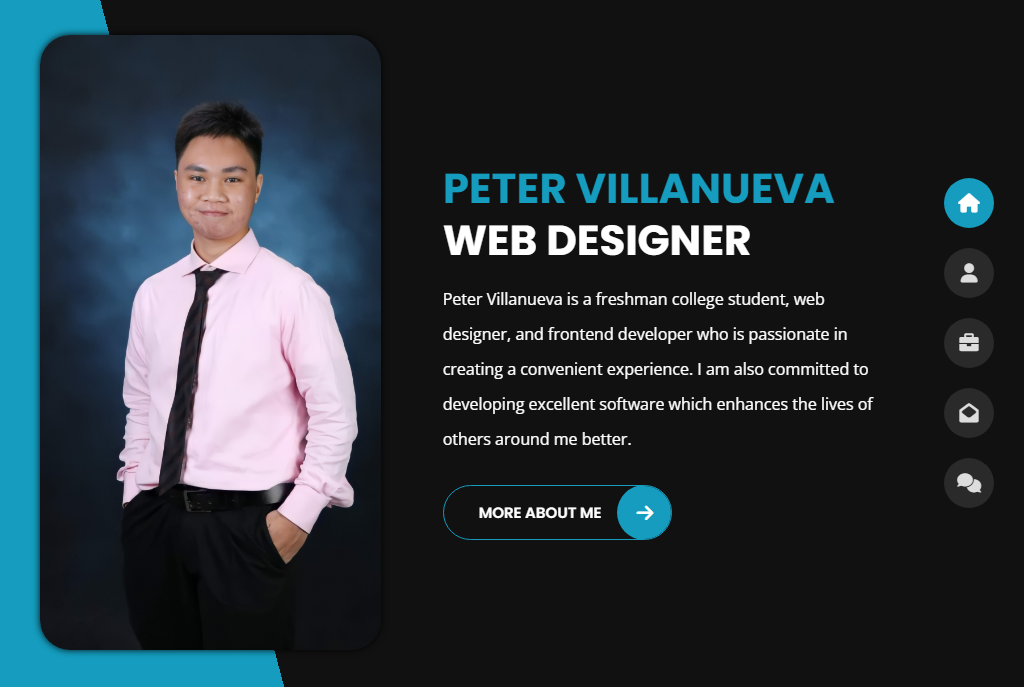
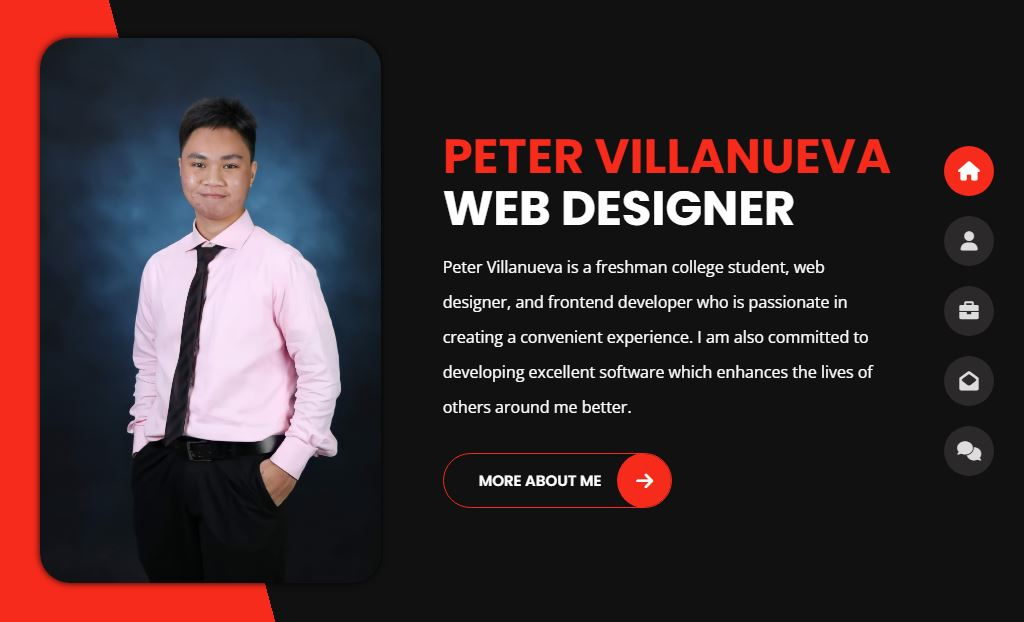
✔ Update

diff --git a/css/skins/red.css b/css/skins/red.css
@@ -16,6 +16,7 @@ body.light #menu li.active a,
 .blog-post .meta i{
 	color: #f72b1c;
 }
+.home .home-details h1:before,
 .about .resume-box .icon,
 .contact ul.social li a:hover,
 body.light.contact ul.social li a:hover,
@@ -31,8 +32,10 @@ body.light .header ul.icon-menu li.icon-box.active, body.light  .header ul.icon-
 .header .icon-box h2,
 .home .color-block,
 .title-section hr,
-.portfolio .slideshow .carousel-indicators li.active {
-	background-color: #f72b1c;
+.portfolio .slideshow .carousel-indicators li.active,
+.button:before,
+.button-icon{
+	background-color:#f72b1c;
 }
 .contact .contactform input[type=text]:focus,
 .contact .contactform input[type=email]:focus,
@@ -43,13 +46,13 @@ body.light.contact .contactform textarea:focus,
 .blog .page-item.active .page-link,
 .blog .page-link:hover,
 body.light.blog .page-item.active .page-link,
-body.light.blog .page-link:hover{
-	border: 1px solid #f72b1c;
+body.light.blog .page-link:hover,
+.button{
+	border: 1px solid#f72b1c;
 }
 .blog .post-thumb {
 	border-bottom: 5px solid #f72b1c;
 }
 .pie, .c100 .bar, .c100.p51 .fill, .c100.p52 .fill, .c100.p53 .fill, .c100.p54 .fill, .c100.p55 .fill, .c100.p56 .fill, .c100.p57 .fill, .c100.p58 .fill, .c100.p59 .fill, .c100.p60 .fill, .c100.p61 .fill, .c100.p62 .fill, .c100.p63 .fill, .c100.p64 .fill, .c100.p65 .fill, .c100.p66 .fill, .c100.p67 .fill, .c100.p68 .fill, .c100.p69 .fill, .c100.p70 .fill, .c100.p71 .fill, .c100.p72 .fill, .c100.p73 .fill, .c100.p74 .fill, .c100.p75 .fill, .c100.p76 .fill, .c100.p77 .fill, .c100.p78 .fill, .c100.p79 .fill, .c100.p80 .fill, .c100.p81 .fill, .c100.p82 .fill, .c100.p83 .fill, .c100.p84 .fill, .c100.p85 .fill, .c100.p86 .fill, .c100.p87 .fill, .c100.p88 .fill, .c100.p89 .fill, .c100.p90 .fill, .c100.p91 .fill, .c100.p92 .fill, .c100.p93 .fill, .c100.p94 .fill, .c100.p95 .fill, .c100.p96 .fill, .c100.p97 .fill, .c100.p98 .fill, .c100.p99 .fill, .c100.p100 .fill {
-	border: 0.08em solid #f72b1c;
+	border: 0.08em solid#f72b1c;
 }
-

diff --git a/contact.html b/contact.html
@@ -20,7 +20,7 @@
         <link href="css/font-awesome.min.css" rel="stylesheet">
         <link href="css/fm.revealator.jquery.min.css" rel="stylesheet">
         <link href="css/style.css" rel="stylesheet">
-        <link href="css/skins/teal.css" rel="stylesheet">
+        <link href="css/skins/red.css" rel="stylesheet">
         <link rel="stylesheet" href="css/Poppins.css">
         <link rel="stylesheet" href="css/Open-Sans.css">
     </head>
@@ -144,19 +144,19 @@
                                 <div class="row">
                                     <div class="col-12 col-md-4">
                                         <input type="text" name="name"
-                                            placeholder="YOUR NAME">
+                                            placeholder="NAME">
                                     </div>
                                     <div class="col-12 col-md-4">
                                         <input type="email" name="email"
-                                            placeholder="YOUR EMAIL">
+                                            placeholder="EMAIL">
                                     </div>
                                     <div class="col-12 col-md-4">
                                         <input type="text" name="subject"
-                                            placeholder="YOUR SUBJECT">
+                                            placeholder="SUBJECT">
                                     </div>
                                     <div class="col-12">
                                         <textarea name="message"
-                                            placeholder="YOUR MESSAGE"></textarea>
+                                            placeholder="MESSAGE"></textarea>
                                         <button type="submit" class="button">
                                             <span class="button-text">Send
                                                 Message</span>

diff --git a/about.html b/about.html
@@ -14,7 +14,7 @@
         <link href="css/font-awesome.min.css" rel="stylesheet">
         <link href="css/fm.revealator.jquery.min.css" rel="stylesheet">
         <link href="css/style.css" rel="stylesheet">
-        <link href="css/skins/teal.css" rel="stylesheet">
+        <link href="css/skins/red.css" rel="stylesheet">
         <link
             href="https://fonts.googleapis.com/css?family=Poppins:400,400i,500,500i,600,600i,700,700i,800,800i,900,900i"
             rel="stylesheet">
@@ -158,8 +158,8 @@
                                 </ul>
                             </div>
                             <div class="col-12 mt-3">
-                                <a class="button" href="portfolio.html">
-                                    <span class="button-text">My Portfolio</span>
+                                <a class="button" href="">
+                                    <span class="button-text">Download CV</span>
                                     <span class="button-icon fa fa-download"></span>
                                 </a>
                             </div>

diff --git a/index.html b/index.html
@@ -24,7 +24,7 @@
         <link href="css/font-awesome.min.css" rel="stylesheet">
         <link href="css/fm.revealator.jquery.min.css" rel="stylesheet">
         <link href="css/style.css" rel="stylesheet">
-        <link href="css/skins/teal.css" rel="stylesheet">
+        <link href="css/skins/red.css" rel="stylesheet">
         <link href="https://fonts.googleapis.com/css?family=Poppins:400,400i,500,500i,600,600i,700,700i,800,800i,900,900i" rel="stylesheet">
         <link href="https://fonts.googleapis.com/css?family=Open+Sans:300,400,400i,600,600i,700" rel="stylesheet">
         <link rel="stylesheet" href="css/Poppins.css">

diff --git a/css/style.css b/css/style.css
@@ -46,6 +46,7 @@ Version: 3.0 (12/29/22)
 html {
   overflow-x: hidden;
   height: 100%;
+  scroll-behavior: smooth;
 }
 html::-webkit-scrollbar{
   display: none; 
@@ -1038,7 +1039,7 @@ body.light hr.separator {
 
 .contact .custom-span-contact {
   font-weight: 600;
-  padding-left: 50px;
+  padding-left: 45px;
   line-height: 21px;
   padding-top: 5px;
 }
@@ -1344,8 +1345,8 @@ body.light hr.separator {
   }
 
   .home .home-details h1 {
-    font-size: 38px;
-    line-height: 48px;
+    font-size: 48px;
+    line-height: 52px;
     margin: 29px 0 13px;
   }
 

diff --git a/blog.html b/blog.html
@@ -14,7 +14,7 @@
         <link href="css/font-awesome.min.css" rel="stylesheet">
         <link href="css/fm.revealator.jquery.min.css" rel="stylesheet">
         <link href="css/style.css" rel="stylesheet">
-        <link href="css/skins/teal.css" rel="stylesheet">
+        <link href="css/skins/red.css" rel="stylesheet">
         <script src="js/modernizr.custom.js"></script>
         <link
             href="https://fonts.googleapis.com/css?family=Poppins:400,400i,500,500i,600,600i,700,700i,800,800i,900,900i"

diff --git a/portfolio.html b/portfolio.html
@@ -14,7 +14,7 @@
         <link href="css/font-awesome.min.css" rel="stylesheet">
         <link href="css/fm.revealator.jquery.min.css" rel="stylesheet">
         <link href="css/style.css" rel="stylesheet">
-        <link href="css/skins/teal.css" rel="stylesheet">
+        <link href="css/skins/red.css" rel="stylesheet">
         <script src="js/modernizr.custom.js"></script>
         <link
             href="https://fonts.googleapis.com/css?family=Poppins:400,400i,500,500i,600,600i,700,700i,800,800i,900,900i"

diff --git a/CSS Basics.html b/CSS Basics.html
@@ -20,7 +20,7 @@
         <link href="css/font-awesome.min.css" rel="stylesheet">
         <link href="css/fm.revealator.jquery.min.css" rel="stylesheet">
         <link href="css/style.css" rel="stylesheet">
-        <link href="css/skins/teal.css" rel="stylesheet">
+        <link href="css/skins/red.css" rel="stylesheet">
         <script src="js/modernizr.custom.js"></script>
         <link rel="stylesheet" href="css/Poppins.css">
         <link rel="stylesheet" href="css/Open-Sans.css">

diff --git a/JavaScript.html b/JavaScript.html
@@ -20,7 +20,7 @@
         <link href="css/font-awesome.min.css" rel="stylesheet">
         <link href="css/fm.revealator.jquery.min.css" rel="stylesheet">
         <link href="css/style.css" rel="stylesheet">
-        <link href="css/skins/teal.css" rel="stylesheet">
+        <link href="css/skins/red.css" rel="stylesheet">
         <script src="js/modernizr.custom.js"></script>
         <link rel="stylesheet" href="css/Poppins.css">
         <link rel="stylesheet" href="css/Open-Sans.css">

diff --git a/What is HTML.html b/What is HTML.html
@@ -20,7 +20,7 @@
         <link href="css/font-awesome.min.css" rel="stylesheet">
         <link href="css/fm.revealator.jquery.min.css" rel="stylesheet">
         <link href="css/style.css" rel="stylesheet">
-        <link href="css/skins/teal.css" rel="stylesheet">
+        <link href="css/skins/red.css" rel="stylesheet">
         <script src="js/modernizr.custom.js"></script>
         <link rel="stylesheet" href="css/Poppins.css">
         <link rel="stylesheet" href="css/Open-Sans.css">
